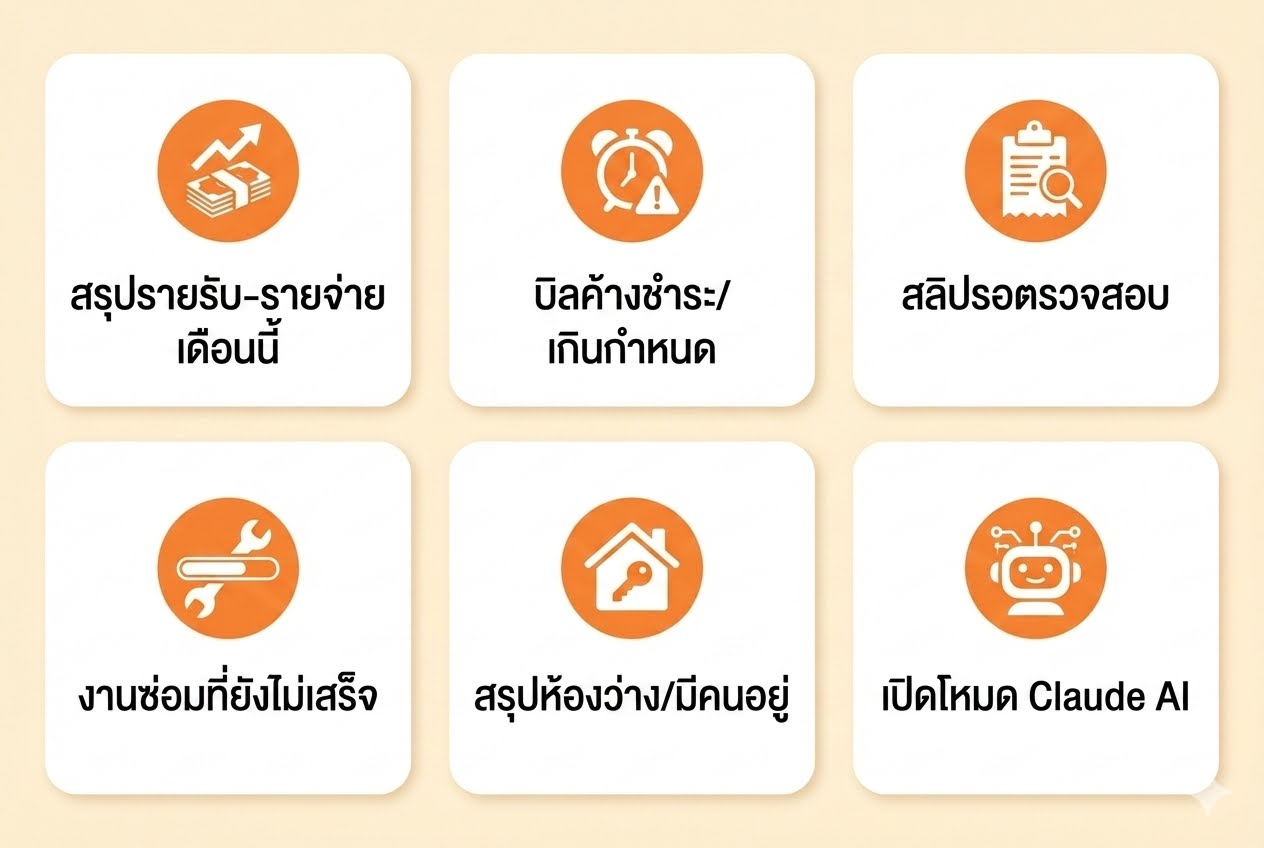
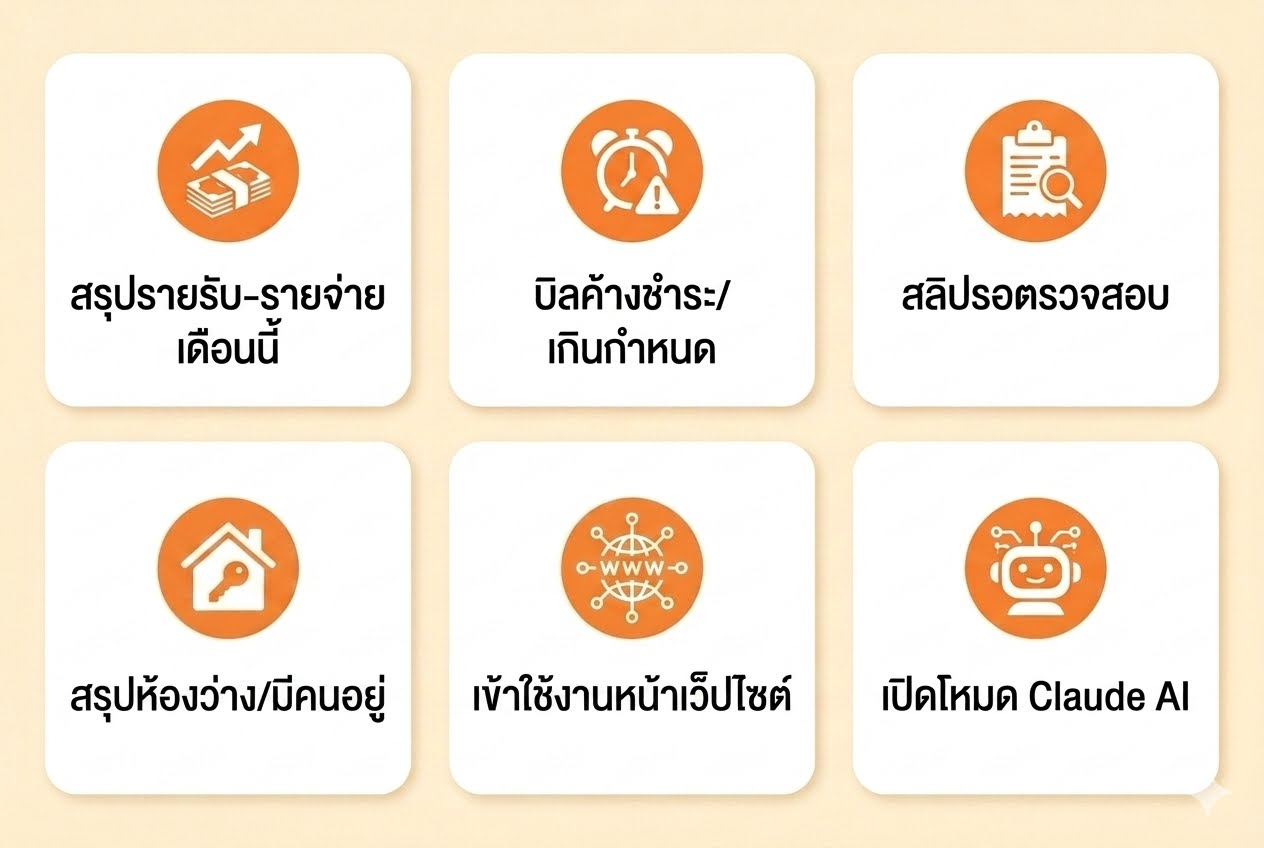
Replace งานซ่อม button with a no-re-login web dashboard link
Per explicit user request (redesigned owner-richmenu.png) — dropped
the "งานซ่อมที่ยังไม่เสร็จ" button entirely, replaced with "เข้าใช้งาน
หน้าเว็ปไซต์" (globe icon) at the same grid position. AI button stays
unchanged as requested ("ปุ่ม AI เหมือนเดิมครับ").

server/routes/line.js:
- GET /api/line/auto-login generalized to handle BOTH tenant and owner
  tokens (branches on payload.role) — previously hardcoded role:
  'tenant' and required roomId unconditionally; owner tokens have no
  roomId at all (rooms only exist on tenant sessions), so that
  validity check moved into the tenant-only branch. Tenant token
  building now explicitly includes role: 'tenant' in the signed
  payload for symmetry (previously implicit).
- New 'owner:dashboard' postback case: same short-lived (5 min)
  signed-token mechanism as the tenant menu's bill/contract/
  maintenance links, redirects into '/' (main app) with a real owner
  session set — no re-login needed. Verified locally: both an owner-
  role token and a regression-check tenant-role token round-trip
  correctly through the generalized route (302 + correct session
  cookie + correct redirect target for each).
- Removed the now-unreachable 'owner:maintenance' case (no button
  triggers it anymore).

prototype-auth/setup-owner-richmenu.js: BUTTONS reordered to match the
new image (บ้าน/ห้องว่าง moved up, งานซ่อม's wrench icon dropped,
globe icon + 'owner:dashboard' added in its place). Verified the
[…]

diff --git a/server/routes/line.js b/server/routes/line.js
@@ -402,7 +402,7 @@ async function handleTenantRichMenuPostback(event) {
   // (customerSheetId + roomId only, matching a real tenant session's
   // shape). Verified + consumed by GET /auto-login below.
   function autoLoginLink(view) {
-    const token = sign({ customerSheetId: process.env.GOOGLE_SHEET_ID, roomId: room.id, exp: Date.now() + 5 * 60 * 1000 });
+    const token = sign({ role: 'tenant', customerSheetId: process.env.GOOGLE_SHEET_ID, roomId: room.id, exp: Date.now() + 5 * 60 * 1000 });
     return `${BASE_URL}/api/line/auto-login?token=${encodeURIComponent(token)}&view=${view}`;
   }
 
@@ -512,12 +512,15 @@ async function handleOwnerRichMenuPostback(event) {
       await replyMessage(event.replyToken, `สลิปรอตรวจสอบ: ${pendingSlips.length} รายการ (ผูกห้องแล้ว)${unmatched.length ? `\nสลิปที่ยังไม่ทราบห้อง: ${unmatched.length} รายการ (ต้องจับคู่เอง)` : ''}\nเข้าไปตรวจได้ที่หน้า Bills → สลิปรอตรวจสอบครับ`);
       return;
     }
-    case 'owner:maintenance': {
-      const maintenance = await readTab('Maintenance');
-      const open = maintenance.filter((m) => m.status !== 'done');
-      if (!open.length) { await replyMessage(event.replyToken, 'ไม่มีงานซ่อมค้างเลยครับ ✅'); return; }
-      const lines = open.slice(0, 10).map((m) => `- ห้อง ${m.room}: ${m.issue} (${m.status === 'inprogress' ? 'กำลังดำเนินการ' : 'รอดำเนินการ'})`);
-      await replyMessage(event.replyToken, `งานซ่อมที่ยังไม่เสร็จ: ${open.length} รายการ\n${lines.join('\n')}${open.length > 10 ? `\n...และอีก ${open.length - 10} รายการ` : ''}`);
+    case 'owner:dashboard': {
+      // Per explicit user follow-up (redesigned image — งานซ่อม cell
+      // replaced with this one): "เข้าใช้งานหน้าเว็ปไซต์" opens the main
+      // app with no re-login needed, same short-lived signed-token
+      // mechanism as the tenant menu's bill/contract/maintenance links
+      // (see GET /auto-login above, now branches on payload.role).
+      const BASE_URL = process.env.PUBLIC_BASE_URL || 'https://chaosuk-rental.onrender.com';
+      const token = sign({ role: 'owner', customerSheetId: process.env.GOOGLE_SHEET_ID, exp: Date.now() + 5 * 60 * 1000 });
+      await replyMessage(event.replyToken, `เข้าหน้าเว็บได้ที่นี่ครับ (ลิงก์นี้ใช้ได้ 5 นาที)\n${BASE_URL}/api/line/auto-login?token=${encodeURIComponent(token)}`);
       return;
     }
     case 'owner:rooms': {
@@ -566,12 +569,28 @@ async function handleOwnerRichMenuPostback(event) {
 // per explicit design — there's no separate bill/contract/maintenance
 // sub-page to route between), just carried through in case a future
 // version wants to auto-scroll/highlight a section.
+// Shared by both Rich Menus (tenant AND owner) — per explicit user
+// request, the owner's "เข้าใช้งานหน้าเว็ปไซต์" Rich Menu button
+// (server/routes/line.js's 'owner:dashboard' postback below) also needs
+// a no-re-login link into the main app, same mechanism as the tenant
+// bill/contract/maintenance links. Branches on payload.role rather than
+// assuming tenant — an owner token has no roomId at all (a room only
+// exists on a tenant's own session), which is why the old hardcoded
+// `!payload.roomId` validity check had to move into the tenant-only
+// branch instead of gating the whole route.
 router.get('/auto-login', (req, res) => {
   const { token } = req.query;
   const payload = token && verify(token);
-  if (!payload || !payload.roomId || !payload.exp || Date.now() > payload.exp) {
+  if (!payload || !payload.exp || Date.now() > payload.exp) {
     return res.status(401).send('ลิงก์หมดอายุหรือไม่ถูกต้องครับ กรุณากดปุ่มจากเมนูอีกครั้ง');
   }
+  if (payload.role === 'owner') {
+    if (!payload.customerSheetId) return res.status(401).send('ลิงก์ไม่ถูกต้องครับ กรุณากดปุ่มจากเมนูอีกครั้ง');
+    const session = { ownerId: payload.ownerId || null, role: 'owner', customerSheetId: payload.customerSheetId, roomId: null, staffId: null };
+    setSessionCookie(res, session);
+    return res.redirect('/');
+  }
+  if (!payload.roomId) return res.status(401).send('ลิงก์ไม่ถูกต้องครับ กรุณากดปุ่มจากเมนูอีกครั้ง');
   const session = { ownerId: null, role: 'tenant', customerSheetId: payload.customerSheetId, roomId: payload.roomId, staffId: null };
   setSessionCookie(res, session);
   res.redirect('/tenant-portal');

diff --git a/prototype-auth/setup-owner-richmenu.js b/prototype-auth/setup-owner-richmenu.js
@@ -41,10 +41,10 @@ const ICONS = {
   warning: 'M1 21h22L12 2 1 21zm12-3h-2v-2h2v2zm0-4h-2v-4h2v4z',
   // "attach_file" (Material Icons) — pending slips.
   clip: 'M16.5 6v11.5c0 2.21-1.79 4-4 4s-4-1.79-4-4V5c0-1.38 1.12-2.5 2.5-2.5s2.5 1.12 2.5 2.5v10.5c0 .55-.45 1-1 1s-1-.45-1-1V6H10v9.5c0 1.38 1.12 2.5 2.5 2.5s2.5-1.12 2.5-2.5V5c0-2.21-1.79-4-4-4S7 2.79 7 5v12.5c0 3.04 2.46 5.5 5.5 5.5s5.5-2.46 5.5-5.5V6h-1.5z',
-  // "build" (Material Icons) — wrench, reused from the tenant set.
-  wrench: 'M22.7 19l-9.1-9.1c.9-2.3.4-5-1.5-6.9-2-2-5-2.4-7.4-1.3L9 6 6 9 1.6 4.7C.4 7.1.9 10.1 2.9 12.1c1.9 1.9 4.6 2.4 6.9 1.5l9.1 9.1c.4.4 1 .4 1.4 0l2.3-2.3c.5-.4.5-1.1.1-1.4z',
   // "home" (Material Icons) — room status.
   home: 'M10 20v-6h4v6h5v-8h3L12 3 2 12h3v8z',
+  // "public" (Material Icons) — globe/www, for the "เข้าใช้งานหน้าเว็ปไซต์" button.
+  globe: 'M12 2C6.48 2 2 6.48 2 12s4.48 10 10 10 10-4.48 10-10S17.52 2 12 2zm-1 17.93c-3.95-.49-7-3.85-7-7.93 0-.62.08-1.21.21-1.79L9 15v1c0 1.1.9 2 2 2v1.93zm6.9-2.54c-.26-.81-1-1.39-1.9-1.39h-1v-3c0-.55-.45-1-1-1H8v-2h2c.55 0 1-.45 1-1V7h2c1.1 0 2-.9 2-2v-.41c2.93 1.19 5 4.06 5 7.41 0 2.08-.8 3.97-2.1 5.39z',
   // "smart_toy" (Material Icons) — robot/AI.
   robot: 'M20 9V7c0-1.1-.9-2-2-2h-3c0-1.66-1.34-3-3-3S9 3.34 9 5H6c-1.1 0-2 .9-2 2v2c-1.66 0-3 1.34-3 3s1.34 3 3 3v4c0 1.1.9 2 2 2h12c1.1 0 2-.9 2-2v-4c1.66 0 3-1.34 3-3s-1.34-3-3-3zM7.5 11.5c0-.83.67-1.5 1.5-1.5s1.5.67 1.5 1.5S9.83 13 9 13s-1.5-.67-1.5-1.5zm9 5c-1 1-2.87 1.5-4.5 1.5s-3.5-.5-4.5-1.5c-.28-.28-.28-.72 0-1 .28-.28.72-.28 1 0 .68.68 2.16 1 3.5 1s2.82-.32 3.5-1c.28-.28.72-.28 1 0 .28.28.28.72 0 1zm-.5-3.5c-.83 0-1.5-.67-1.5-1.5s.67-1.5 1.5-1.5 1.5.67 1.5 1.5-.67 1.5-1.5 1.5z',
 };
@@ -53,12 +53,17 @@ const ICONS = {
 // top-to-bottom. "owner:" prefix on every data value is what server/
 // routes/line.js's postback dispatcher uses to tell owner taps apart
 // from tenant taps (see handleOwnerRichMenuPostback there).
+// Per explicit user follow-up (redesigned owner-richmenu.png): งานซ่อม
+// dropped from the menu entirely, replaced with a direct "เข้าใช้งานหน้า
+// เว็ปไซต์" no-re-login link into the main app (see 'owner:dashboard' in
+// server/routes/line.js's handleOwnerRichMenuPostback — same short-lived-
+// signed-token mechanism as the tenant menu's web-opening buttons).
 const BUTTONS = [
   ['baht', 'สรุปรายรับ-รายจ่ายเดือนนี้', 'owner:summary'],
   ['warning', 'บิลค้างชำระ/เกินกำหนด', 'owner:overdue'],
   ['clip', 'สลิปรอตรวจสอบ', 'owner:slips'],
-  ['wrench', 'งานซ่อมที่ยังไม่เสร็จ', 'owner:maintenance'],
   ['home', 'สรุปห้องว่าง/มีคนอยู่', 'owner:rooms'],
+  ['globe', 'เข้าใช้งานหน้าเว็ปไซต์', 'owner:dashboard'],
   ['robot', 'เปิดโหมด Claude AI', 'owner:ai'],
 ];
 
